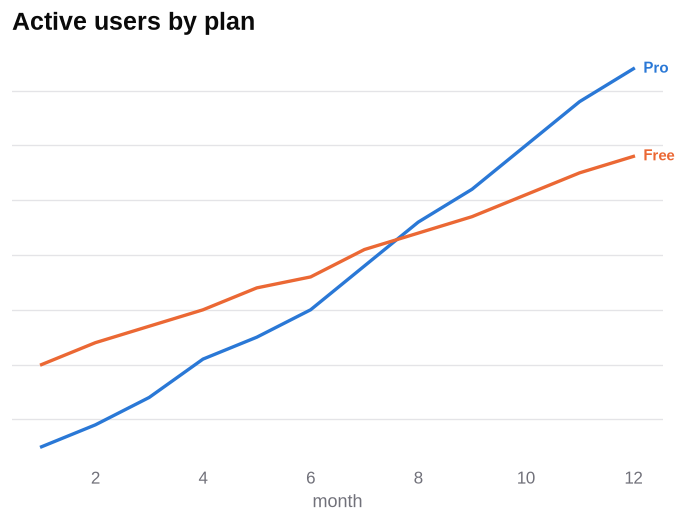
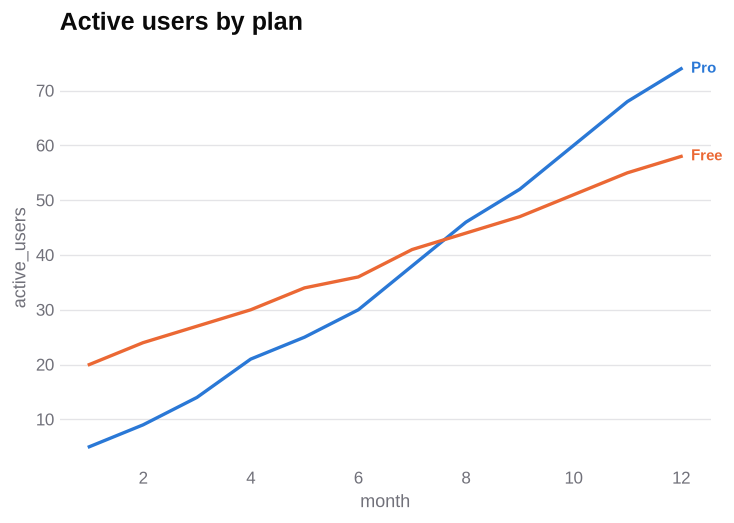
Label both axes by default in the shadcn themes
The default light/dark themes hid the value axis (no tick numbers, no axis
title), leaving only the category axis labeled. Flip value_axis back on so
both axes carry their ticks and axis titles by default, while keeping the
rest of the shadcn look (no spines, rounded bars, faint horizontal grid).

- themes.py: drop value_axis=False from the default shadcn chrome (value_axis
  now defaults to True for LIGHT/DARK). The value_axis knob and its plumbing
  in core/charts stay for any custom hidden-axis theme.
- Tests: assert the default theme shows value-axis tick labels + both axis
  titles; theme test asserts value_axis is True.
- Docs (README/CLAUDE/mvp/examples) drop "hidden value axis" from the default
  description; re-rendered example images now show the labeled value axis.

Claude-Session: https://claude.ai/code/session_01SHA1ht7BUdjWvcxKPRCqGK

diff --git a/src/vizlib/themes.py b/src/vizlib/themes.py
@@ -2,8 +2,9 @@
 theme state and the matplotlib ``rcParams`` application.
 
 The default look is **shadcn** — :data:`LIGHT` / :data:`DARK` carry the shadcn
-aesthetic (rounded bar ends, no axis spines, hidden value axis, zinc/card neutrals)
-over vizlib's validated colorblind-safe palette. :data:`CLASSIC` / :data:`CLASSIC_DARK`
+aesthetic (rounded bar ends, no axis spines, faint horizontal grid, zinc/card
+neutrals; both axes stay labeled) over vizlib's validated colorblind-safe palette.
+:data:`CLASSIC` / :data:`CLASSIC_DARK`
 preserve the original vizlib look, and :data:`LIME` / :data:`LIME_DARK` is a custom
 theme. A theme is applied globally with :func:`set_theme` or scoped with the
 :func:`theme` context manager; individual chart calls can also override per-call via
@@ -86,10 +87,11 @@ class Theme:
         )
 
 
-# The default look is shadcn: rounded bar ends, no axis spines, a hidden value axis
-# (a faint horizontal grid carries it), zinc/card neutrals, and an Arial-metric sans
-# — over vizlib's validated colorblind-safe palette.
-_SHADCN_CHROME = dict(axis_lines=False, bar_radius=0.10, value_axis=False)
+# The default look is shadcn: rounded bar ends, no axis spines, a faint horizontal
+# grid, zinc/card neutrals, and an Arial-metric sans — over vizlib's validated
+# colorblind-safe palette. Both axes stay labeled (ticks + axis title); only the
+# spines are dropped.
+_SHADCN_CHROME = dict(axis_lines=False, bar_radius=0.10)
 LIGHT = replace(Theme.from_mode("light"), **_SHADCN_CHROME)
 DARK = replace(Theme.from_mode("dark"), **_SHADCN_CHROME)
 # "classic" — the original vizlib look (hairline spines, visible value axis, square

diff --git a/tests/test_bar.py b/tests/test_bar.py
@@ -191,12 +191,15 @@ def test_subtitle_and_caption_render(sales):
 def test_default_theme_is_shadcn(sales):
     from matplotlib.patches import PathPatch
 
-    # The default look is shadcn: rounded bars (PathPatches), no spines, hidden y.
+    # The default look is shadcn: rounded bars (PathPatches), no spines, but both
+    # axes stay labeled (value-axis ticks + axis title).
     ax = viz.bar(sales, x="region", y="revenue", theme="light")
     assert all(isinstance(p, PathPatch) for p in ax.patches)
     assert ax.spines["left"].get_visible() is False
     assert ax.spines["bottom"].get_visible() is False
-    assert all(t.get_text() == "" for t in ax.get_yticklabels())
+    assert any(t.get_text() for t in ax.get_yticklabels())
+    assert ax.get_ylabel() == "revenue"
+    assert ax.get_xlabel() == "region"
 
 
 def test_classic_theme_keeps_square_bars(sales):

diff --git a/tests/test_themes.py b/tests/test_themes.py
@@ -50,11 +50,11 @@ def test_theme_is_immutable():
 
 
 def test_default_light_dark_are_shadcn_styled():
-    # The default look is shadcn: rounded bars, no spines, hidden value axis.
+    # The default look is shadcn: rounded bars, no spines, both axes labeled.
     for th in (viz.LIGHT, viz.DARK):
         assert th.axis_lines is False
         assert th.bar_radius > 0
-        assert th.value_axis is False
+        assert th.value_axis is True
     # ...over vizlib's validated CVD-safe palette (blue lead), not coral/teal.
     assert viz.LIGHT.categorical[0] == "#2a78d6"
     assert viz.LIGHT.categorical == viz.CLASSIC.categorical

diff --git a/mvp.md b/mvp.md
@@ -16,7 +16,7 @@ ergonomics but still don't make a chart that is *clear* and *looks good* by defa
 
 **Value proposition:** `vizlib` is a **shadcn-inspired** chart library. It does not
 add new plot types or a new rendering engine; it makes the **shadcn charts aesthetic
-the default** (rounded bar ends, borderless axes, hidden value axis, faint grid,
+the default** (rounded bar ends, borderless axes, faint grid, both axes labeled,
 light/dark card surfaces) on top of matplotlib — over a colorblind-safe palette, with
 selective labels and an emphasis-first mindset — so the *first* chart you draw already
 looks like a shadcn chart. (The original vizlib look remains as the `classic` theme.)
@@ -192,8 +192,8 @@ A `Theme` is a small dataclass bundling palettes + chrome + typography + shape k
 (`axis_lines`, `bar_radius`, `value_axis`). Applying a theme sets matplotlib
 `rcParams` and is what each chart function reads before drawing. The **default look is
 shadcn**: **light** / **dark** carry the shadcn aesthetic (rounded bar ends, no axis
-spines, hidden value axis, card surfaces, Arial-metric sans) over the validated
-colorblind-safe palette. **classic** / **classic-dark** preserve the original vizlib
+spines, faint grid, both axes labeled, card surfaces, Arial-metric sans) over the
+validated colorblind-safe palette. **classic** / **classic-dark** preserve the original vizlib
 look; **lime** / **lime-dark** is a custom theme.
 
 ### 5.2 Palettes (validated default)

diff --git a/CLAUDE.md b/CLAUDE.md
@@ -8,7 +8,7 @@ This file provides guidance to Claude Code (claude.ai/code) when working with co
 matplotlib that renders **pandas DataFrames**. It draws nothing from scratch; every
 chart is a matplotlib call, and the value is the *good defaults* on top. The
 **default look is shadcn** (`light`/`dark`): rounded bar ends, no axis spines, a
-hidden value axis with a faint horizontal grid, card surfaces, an Arial-metric sans
+faint horizontal grid, card surfaces, an Arial-metric sans, both axes labeled
 — over a colorblind-safe palette. The original look is preserved as
 `classic`/`classic-dark`. Read `shadcnStyle.md` for the style breakdown, `mvp.md` for
 the design spec/roadmap, and `README.md` for the user-facing pitch.
@@ -67,7 +67,8 @@ the same five-step pipeline, and new chart types must too:
   the 8-hue categorical order, sequential/diverging ramps, and chrome/ink tokens.
 - `themes.py` — the immutable `Theme` dataclass assembled from `palettes`. The
   default `LIGHT`/`DARK` wear the **shadcn** chrome (knobs `axis_lines=False`,
-  `bar_radius=0.10`, `value_axis=False`, zinc/card neutrals, Liberation Sans) over
+  `bar_radius=0.10`; `value_axis=True` so both axes stay labeled; zinc/card neutrals,
+  Liberation Sans) over
   the validated CVD palette, built via `dataclasses.replace(from_mode(...), ...)`.
   `CLASSIC`/`CLASSIC_DARK` are the original look (classic-chrome defaults);
   `LIME`/`LIME_DARK` is a custom theme. Also: global theme state

diff --git a/README.md b/README.md
@@ -8,8 +8,8 @@
 matplotlib can draw almost anything, but its defaults look dated: loud colors, heavy
 gridlines, boxed-in axes, no dark mode. `vizlib` doesn't replace matplotlib or add
 new chart types — it makes the **shadcn charts aesthetic the default**: rounded bar
-ends, borderless axes, a hidden value axis with a whisper-faint horizontal grid,
-muted labels, and light/dark card surfaces — all over a **colorblind-safe palette**.
+ends, borderless axes, a whisper-faint horizontal grid, muted labels on both axes,
+and light/dark card surfaces — all over a **colorblind-safe palette**.
 
 Same data, the same one call — matplotlib's defaults (left) vs vizlib (right):
 
@@ -136,7 +136,7 @@ Built-in themes:
 
 | Theme | Look |
 |---|---|
-| **`light`** (default) / **`dark`** | The shadcn aesthetic — rounded bars, no spines, hidden value axis, faint grid, card surfaces — over the validated colorblind-safe palette. |
+| **`light`** (default) / **`dark`** | The shadcn aesthetic — rounded bars, no spines, faint grid, card surfaces, both axes labeled — over the validated colorblind-safe palette. |
 | **`classic`** / **`classic-dark`** | The original vizlib look: hairline spines, a visible value axis, square bars, the default sans. |
 | **`lime`** / **`lime-dark`** | A custom lime-accent theme (palette not colorblind-validated). |
 

diff --git a/examples/README.md b/examples/README.md
@@ -151,9 +151,9 @@ distinct set. Light (`lime`) and dark (`lime-dark`) variants.
 ![lime dark scatter](./images/lime_dark_scatter.png)
 
 ### `light_and_dark.py`
-The default look **is** shadcn — rounded bar ends, no axis spines, a hidden value
-axis with a faint horizontal grid, muted labels — over the validated colorblind-safe
-palette. It ships in light and dark mode (`theme="dark"`).
+The default look **is** shadcn — rounded bar ends, no axis spines, a faint horizontal
+grid, muted labels on both axes — over the validated colorblind-safe palette. It ships
+in light and dark mode (`theme="dark"`).
 
 ![light mode](./images/light_mode.png)
 ![dark mode](./images/dark_mode.png)
